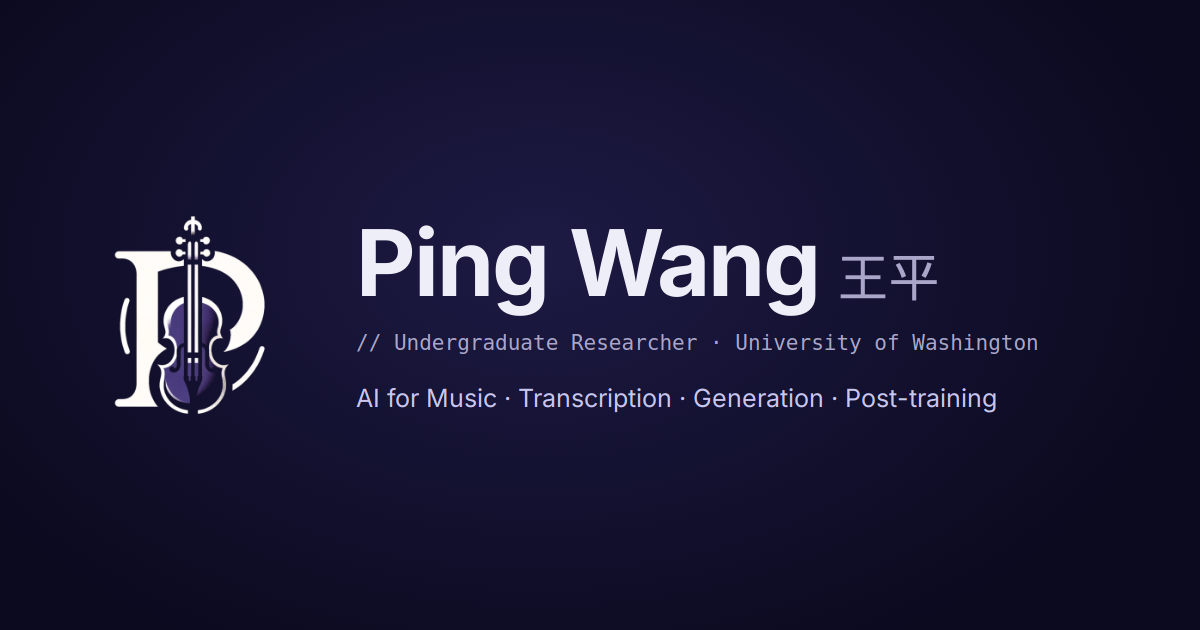
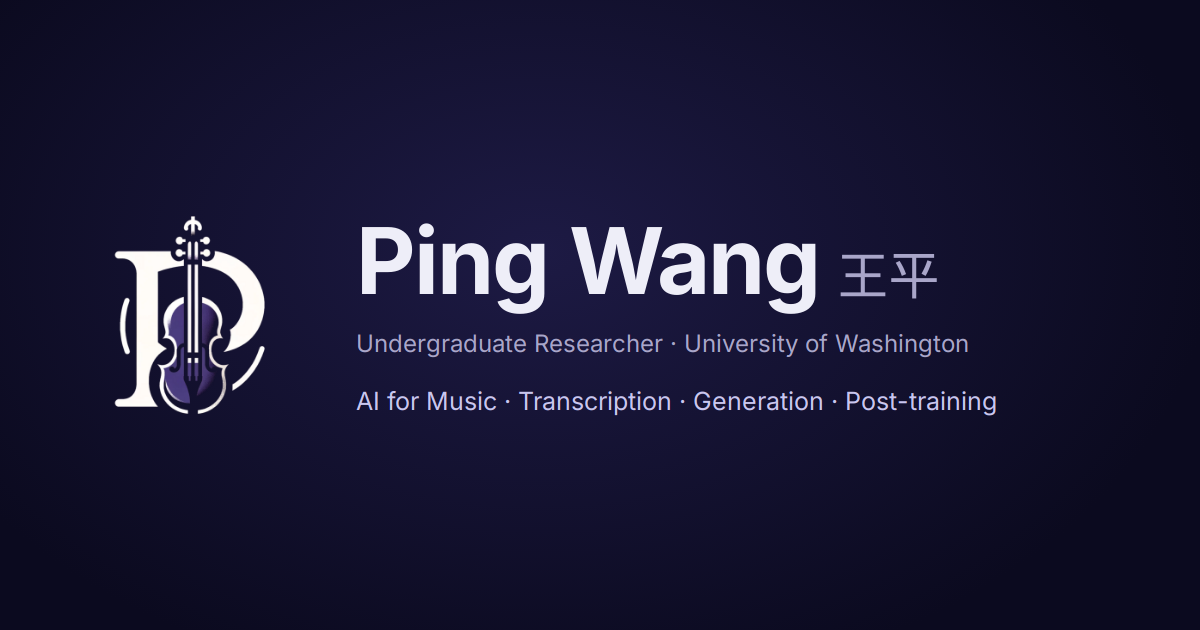
Fix click overlay; add light/dark mode; simplify footer
- ProjectCard: make the card the positioning context so its stretched
  title link no longer covers the whole page and blocks other links
- Add a light theme with a header toggle (defaults to the system
  setting, remembered per browser), a navy logo variant, and light map tiles
- Remove "//" heading markers, the cookie notes, and the About CV box
- Footer: name plus profile links only
- Project titles match paper titles; Posts back in nav with tag filter;
  add LinkedIn; fix missing spaces before inline links

diff --git a/src/styles/global.css b/src/styles/global.css
@@ -19,9 +19,38 @@
   --color-accent-gold: oklch(0.84 0.11 85);
 }
 
+/* Light theme: same accents, deepened for contrast on a paper-white background.
+   The theme is set on <html data-theme> by the inline script in BaseLayout. */
+:root[data-theme='light'] {
+  --color-background: oklch(0.985 0.004 285);
+  --color-surface: oklch(0.965 0.008 285);
+  --color-foreground: oklch(0.24 0.04 282);
+  --color-muted: oklch(0.47 0.035 285);
+  --color-card: oklch(1 0 0);
+  --color-border: oklch(0.88 0.015 285);
+
+  --color-accent-violet: oklch(0.5 0.19 293);
+  --color-accent-blue: oklch(0.5 0.15 250);
+  --color-accent-gold: oklch(0.62 0.13 70);
+}
+
 html {
   color-scheme: dark;
   scroll-behavior: smooth;
+}
+:root[data-theme='light'] {
+  color-scheme: light;
+}
+
+/* Swap artwork that only reads on one background (e.g. the white logo). */
+.only-light {
+  display: none;
+}
+:root[data-theme='light'] .only-light {
+  display: revert;
+}
+:root[data-theme='light'] .only-dark {
+  display: none;
 }
 
 @media (prefers-reduced-motion: reduce) {

diff --git a/src/config/site.ts b/src/config/site.ts
@@ -21,7 +21,7 @@ export const SITE = {
   social: {
     scholar: 'https://scholar.google.com/citations?user=cICbXioAAAAJ',
     github: 'https://github.com/pingw220',
-    linkedin: '', // TODO: add your LinkedIn profile URL
+    linkedin: 'https://www.linkedin.com/in/pingw220/',
   },
 
   /**
@@ -57,5 +57,6 @@ export const NAV_LINKS = [
   { href: '/about', label: 'About' },
   { href: '/publications', label: 'Publications' },
   { href: '/projects', label: 'Projects' },
+  { href: '/posts', label: 'Posts' },
   { href: '/contact', label: 'Contact' },
 ] as const;

diff --git a/README.md b/README.md
@@ -38,7 +38,10 @@ npm run check      # astro check (TypeScript + template diagnostics)
 | `visitor-api/` | Cloudflare Worker behind the Global Reach map |
 
 **Hiding a link:** set any URL in `SITE.social` to `''` and it disappears from the home page,
-About page, contact page, and footer. LinkedIn is empty until you add your URL.
+About page, contact page, and footer.
+
+**Light / dark mode:** follows the visitor's system setting until they use the toggle in the header;
+the choice is saved in their browser. Light-theme colors are in `src/styles/global.css`.
 
 ## Personal assets & branding
 
@@ -163,7 +166,3 @@ builds and publishes on every push to `main`.
 
 `site` in `astro.config.mjs` is already set to `https://pingw220.github.io` for canonical URLs,
 the sitemap, and RSS.
-
-## Still to fill in
-
-- `src/config/site.ts` — `SITE.social.linkedin` is empty (the LinkedIn link is hidden until set)
